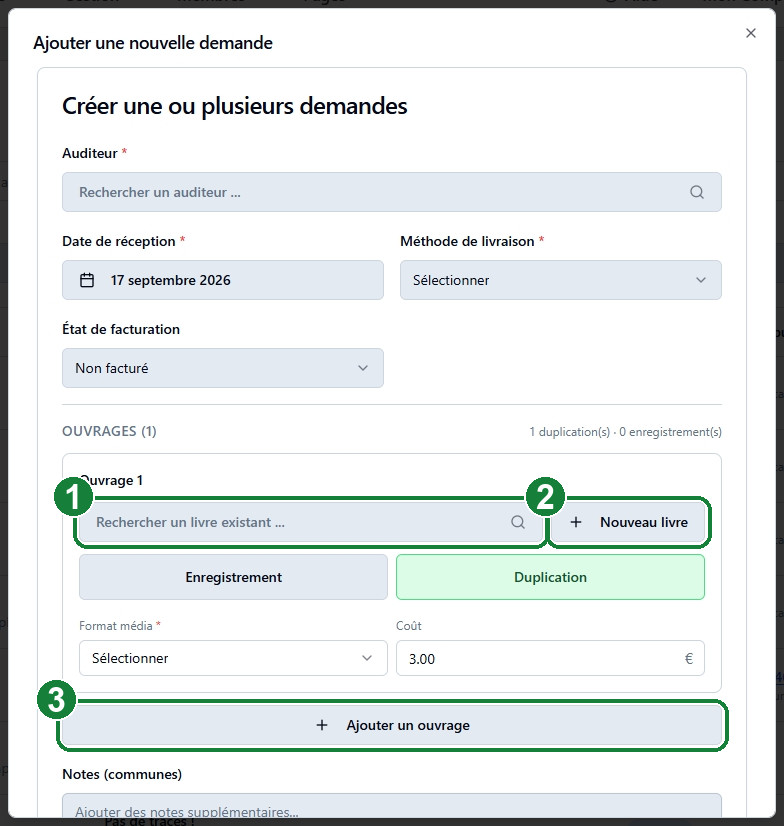
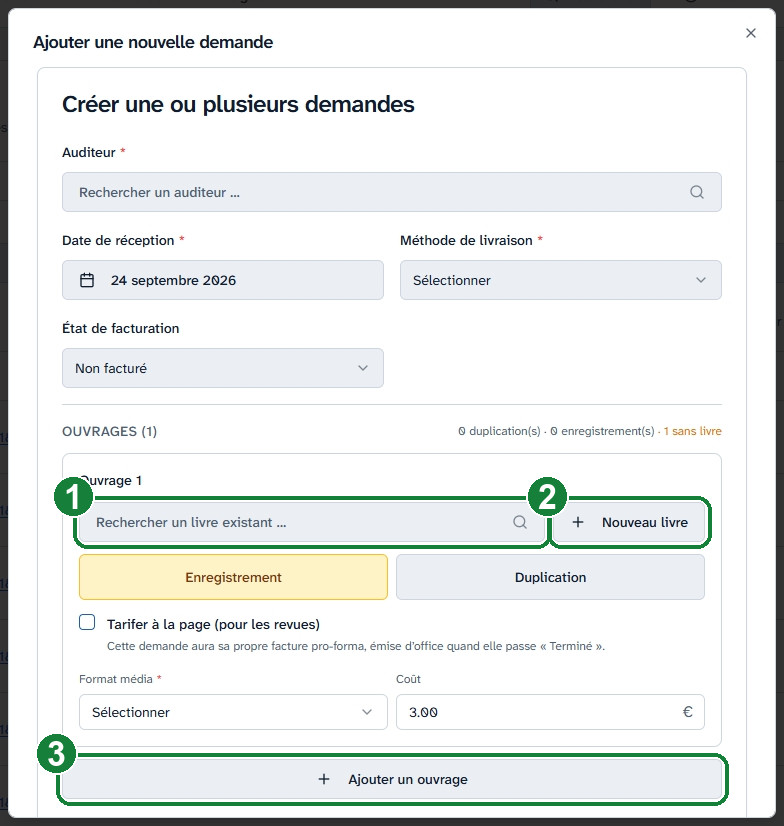
Nouvelle demande : le type de chaque ouvrage suit le livre choisi
Chaque ligne naissait « Duplication », et les boutons de type sont
recouverts par la liste de résultats du sélecteur de livre pendant la
recherche : des livres à faire lire partaient en duplications de rien.

- une ligne neuve est « Enregistrement » ;
- au choix du livre, le type est proposé (lib/orders/orderTypeSuggestion.ts) :
  audio présent → Duplication ; pas d'audio mais enregistrement en route
  (demande d'enregistrement ouverte, attribution Attente/En cours) →
  Duplication ; sinon → Enregistrement. Une note dit pourquoi quand
  « Duplication » est choisi à la place de l'utilisateur ; un clic l'emporte ;
- avertissement sur une duplication d'un livre sans audio ni enregistrement
  en cours ;
- mode d'emploi (06-demandes) et captures demandes-07/08 mis à jour ;
  demandes-08 entre dans le script de capture.

diff --git a/components/ui/admin/AddOrderFormBackend.tsx b/components/ui/admin/AddOrderFormBackend.tsx
@@ -45,6 +45,7 @@ import {
     pagePricingToPayload,
     pagePricingError,
 } from '@/lib/orders/pagePricingForm';
+import type { OrderLineType, OrderTypeReason } from '@/lib/orders/orderTypeSuggestion';
 
 // N3 — required fields, visual top→bottom. Per-line media format fields are
 // appended dynamically at validation time (one per open line).
@@ -54,12 +55,16 @@ const CREATE_FIELD_ORDER = ['aveugleId', 'deliveryMethod', 'lines'];
 // Multi-book order creation (fan-out: one order is created per book)
 // ---------------------------------------------------------------------------
 
-type OrderLineType = 'DUPLICATION' | 'ENREGISTREMENT';
-
 interface OrderBookLine {
     key: string;
     book: Book | null;
     type: OrderLineType;
+    /**
+     * Pourquoi `type` a été choisi à la place de l'utilisateur, au choix du livre
+     * (lib/orders/orderTypeSuggestion.ts). `null` dès qu'il clique lui-même un
+     * type : la note d'explication n'a alors plus lieu d'être.
+     */
+    typeReason: OrderTypeReason | null;
     cost: string;
     /** Seulement pour un enregistrement : une duplication n'a pas de lecture à compter. */
     pagePricing: PagePricingForm;
@@ -70,7 +75,10 @@ let lineKeySeq = 0;
 const makeLine = (cost: string): OrderBookLine => ({
     key: `line-${++lineKeySeq}-${Date.now()}`,
     book: null,
-    type: 'DUPLICATION',
+    // « Enregistrement » tant qu'aucun livre n'est choisi : c'est le cas d'un
+    // livre inconnu du corpus. Choisir le livre corrige ensuite s'il y a lieu.
+    type: 'ENREGISTREMENT',
+    typeReason: null,
     cost,
     pagePricing: emptyPagePricing(),
     mediaFormatId: null,
@@ -199,7 +207,12 @@ export function AddOrderFormBackend({
             })),
         [lines]
     );
-    const { adviceFor: recordingAdviceFor, conflicts: recordingConflicts } = useRecordingAdvice({
+    const {
+        adviceFor: recordingAdviceFor,
+        conflicts: recordingConflicts,
+        recordingUnderWayFor,
+        suggestTypeFor,
+    } = useRecordingAdvice({
         current: recordingLines,
     });
 
@@ -256,15 +269,35 @@ export function AddOrderFormBackend({
     // (lib/pricing.ts). This is where adjustments go missing: ten ouvrages saisis
     // d'affilée, un seul coût recopié partout. Le champ « Coût » de la ligne reste
     // libre juste en dessous, et un livre au poids inconnu garde le coût en place.
-    const selectBookForLine = (key: string, book: Book | null) => {
+    //
+    // Le type de la ligne suit le livre de la même façon (lib/orders/orderTypeSuggestion.ts).
+    // On l'attend AVANT de remplir la ligne : le sélecteur garde sa liste ouverte,
+    // avec un indicateur sur la ligne choisie, tant que ce callback n'a pas rendu
+    // la main — la ligne n'apparaît donc jamais avec un type qui change sous les yeux.
+    const selectBookForLine = async (key: string, book: Book | null) => {
         const suggested = book ? costSuggestion(book.audioSizeKb) : null;
-        updateLine(key, { book, ...(suggested ? { cost: suggested.value } : {}) });
+        const typeSuggestion = book
+            ? await suggestTypeFor(book.id, Boolean(book.audio_filepath))
+            : null;
+        updateLine(key, {
+            book,
+            ...(suggested ? { cost: suggested.value } : {}),
+            ...(typeSuggestion
+                ? {
+                    type: typeSuggestion.type,
+                    typeReason: typeSuggestion.reason,
+                    // Même remise à zéro que le bouton « Duplication » : une
+                    // duplication n'a pas de lecture à compter.
+                    ...(typeSuggestion.type === 'DUPLICATION' ? { pagePricing: emptyPagePricing() } : {}),
+                }
+                : {}),
+        });
     };
 
-    // Counted over the lines that carry a book only. A fresh line is born
-    // « Duplication » with no book, so counting every line announced « 14
-    // duplications » / « Créer 14 demandes » over 11 books chosen — three
-    // forgotten empty lines — and the submit then refused the lot.
+    // Counted over the lines that carry a book only. A fresh line has a type but
+    // no book, so counting every line announced « 14 demandes » / « Créer 14
+    // demandes » over 11 books chosen — three forgotten empty lines — and the
+    // submit then refused the lot.
     const filledLines = lines.filter(l => l.book);
     const filledCount = filledLines.length;
     const emptyCount = lines.length - filledCount;
@@ -493,20 +526,51 @@ export function AddOrderFormBackend({
                                             viewHref={(b) => `/admin/books?book=${b.id}`}
                                         />
                                     </div>
-                                    <CreateBookDialog onCreated={(b) => selectBookForLine(line.key, b)} />
+                                    <CreateBookDialog onCreated={(b) => void selectBookForLine(line.key, b)} />
                                 </div>
 
-                                {/* Type — per book */}
+                                {/* Type — per book. Proposé au choix du livre ; un clic ici l'emporte. */}
                                 <div className="grid grid-cols-2 gap-2">
-                                    <button type="button" onClick={() => updateLine(line.key, { type: 'ENREGISTREMENT' })}
+                                    <button type="button" onClick={() => updateLine(line.key, { type: 'ENREGISTREMENT', typeReason: null })}
                                             className={`p-3 rounded-md border text-sm font-medium transition-colors ${line.type === 'ENREGISTREMENT' ? 'bg-amber-100 border-amber-400 text-amber-900 dark:bg-amber-700/30 dark:border-amber-600 dark:text-amber-200' : 'bg-field border-border text-foreground hover:bg-muted'}`}>
                                         Enregistrement
                                     </button>
-                                    <button type="button" onClick={() => updateLine(line.key, { type: 'DUPLICATION', pagePricing: emptyPagePricing() })}
+                                    <button type="button" onClick={() => updateLine(line.key, { type: 'DUPLICATION', typeReason: null, pagePricing: emptyPagePricing() })}
                                             className={`p-3 rounded-md border text-sm font-medium transition-colors ${line.type === 'DUPLICATION' ? 'bg-green-100 border-green-400 text-green-900 dark:bg-green-700/30 dark:border-green-600 dark:text-green-200' : 'bg-field border-border text-foreground hover:bg-muted'}`}>
                                         Duplication
                                     </button>
                                 </div>
+
+                                {/* Pourquoi « Duplication » a été choisi à sa place. Rien pour
+                                    « Enregistrement » : c'est le type de départ, l'annoncer
+                                    à chaque livre ne serait que du bruit. */}
+                                {line.type === 'DUPLICATION' && line.typeReason === 'audio' && (
+                                    <p className="text-sm text-muted-foreground">
+                                        Un fichier audio existe déjà pour ce livre : « Duplication » a été
+                                        choisi automatiquement. Choisissez « Enregistrement » s&apos;il faut
+                                        le faire relire.
+                                    </p>
+                                )}
+                                {line.type === 'DUPLICATION' && line.typeReason === 'recording-under-way' && (
+                                    <p className="text-sm text-muted-foreground">
+                                        Ce livre est déjà en cours d&apos;enregistrement : « Duplication » a été
+                                        choisi automatiquement. Elle pourra être faite au retour de
+                                        l&apos;enregistrement.
+                                    </p>
+                                )}
+                                {/* Le cas que l'ancien défaut produisait sans bruit : une duplication
+                                    d'un livre qui n'a rien à copier et que personne n'enregistre.
+                                    Seulement une fois la vérification revenue (`false`, pas `null`). */}
+                                {line.type === 'DUPLICATION' &&
+                                    line.book &&
+                                    !line.book.audio_filepath &&
+                                    recordingUnderWayFor(line.book.id) === false && (
+                                    <p className="text-sm text-amber-700 dark:text-amber-400">
+                                        Ce livre n&apos;a pas encore de fichier audio et aucun enregistrement
+                                        n&apos;est en cours : il n&apos;y a rien à dupliquer. S&apos;il doit être
+                                        lu, choisissez « Enregistrement ».
+                                    </p>
+                                )}
 
                                 {/* #2 — audio déjà présent / demande d'enregistrement concurrente */}
                                 <RecordingAdviceNotice advice={recordingAdviceFor(recordingLines[idx])} />

diff --git a/lib/orders/orderTypeSuggestion.ts b/lib/orders/orderTypeSuggestion.ts
@@ -1,0 +1,50 @@
+/**
+ * Le type qu'un ouvrage appelle quand on le choisit dans une nouvelle demande.
+ *
+ * Le mode d'emploi pose la règle (06-demandes) : un livre déjà enregistré se
+ * duplique, un livre qu'il faut faire lire s'enregistre. Le type est donc, dans
+ * la plupart des cas, une conséquence du livre — pas une décision à retenir par
+ * cœur. Chaque ligne naissait pourtant « Duplication », et les boutons de type
+ * se trouvent juste sous le sélecteur de livre, que la liste de résultats
+ * recouvre pendant la recherche : on choisissait un livre, la liste se fermait,
+ * et la ligne partait en duplication sans que personne l'ait vue. Les nouveaux
+ * livres ressortaient ainsi en duplications de rien.
+ *
+ * On déduit donc le type AU MOMENT où le livre est choisi, c'est-à-dire après la
+ * fermeture de la liste : ce que la liste cachait n'a plus d'importance. Ça
+ * reste une proposition — un nouvel enregistrement d'un livre déjà enregistré
+ * (relecture) se choisit à la main, et le bouton cliqué l'emporte.
+ *
+ * Trois cas, dans cet ordre :
+ * 1. le livre a un fichier audio → « Duplication » : il y a de quoi copier ;
+ * 2. pas d'audio, mais un enregistrement est déjà en route (demande
+ *    d'enregistrement ouverte, ou attribution « Attente envoi vers lecteur » /
+ *    « En cours ») → « Duplication » : elle attend ce retour-là plutôt que de
+ *    lancer une seconde lecture du même livre ;
+ * 3. sinon → « Enregistrement ».
+ *
+ * Une attribution déjà « Terminé » ne compte pas au cas 2 : son audio est revenu,
+ * c'est le cas 1. Et si l'audio a été perdu depuis, il faut bien réenregistrer.
+ */
+
+export type OrderLineType = 'DUPLICATION' | 'ENREGISTREMENT';
+
+/** Pourquoi ce type-là — ce que la ligne dit à l'utilisateur quand il n'est pas évident. */
+export type OrderTypeReason = 'audio' | 'recording-under-way' | 'to-record';
+
+export interface OrderTypeSuggestion {
+    type: OrderLineType;
+    reason: OrderTypeReason;
+}
+
+export function suggestOrderType({
+    bookHasAudio,
+    recordingUnderWay,
+}: {
+    bookHasAudio: boolean;
+    recordingUnderWay: boolean;
+}): OrderTypeSuggestion {
+    if (bookHasAudio) return { type: 'DUPLICATION', reason: 'audio' };
+    if (recordingUnderWay) return { type: 'DUPLICATION', reason: 'recording-under-way' };
+    return { type: 'ENREGISTREMENT', reason: 'to-record' };
+}

diff --git a/hooks/useRecordingAdvice.ts b/hooks/useRecordingAdvice.ts
@@ -8,6 +8,7 @@ import {
     type RecordingContext,
     type RecordingDecision,
 } from "@/lib/orders/recordingAdvice";
+import { suggestOrderType, type OrderTypeSuggestion } from "@/lib/orders/orderTypeSuggestion";
 
 /** Attribution encore en cours pour ce livre — bloque une duplication. */
 export interface BlockingRecording {
@@ -166,5 +167,40 @@ export function useRecordingAdvice({
         [byBook]
     );
 
-    return { adviceFor, conflicts, blockingRecordingFor };
+    /**
+     * Un enregistrement de ce livre est-il déjà en route — demande
+     * d'enregistrement ouverte, ou attribution pas encore revenue ? `null` tant
+     * que la réponse n'est pas là : ne rien affirmer plutôt que d'affirmer à tort.
+     * Hors de la porte des avis, comme `blockingRecordingFor` : c'est l'état du
+     * livre, pas une mise en garde sur la décision.
+     */
+    const recordingUnderWayFor = useCallback(
+        (catalogueId: number | null): boolean | null => {
+            const res = catalogueId ? byBook[catalogueId] : null;
+            if (!res) return null;
+            return res.activeRecordingCount > 0 || res.blockingRecording !== null;
+        },
+        [byBook]
+    );
+
+    /**
+     * Le type à proposer pour un livre qu'on vient de choisir
+     * (`lib/orders/orderTypeSuggestion.ts`). Un livre qui a déjà son audio n'a pas
+     * besoin du serveur. Si la vérification échoue, on retombe sur
+     * « Enregistrement » : l'avis « demande d'enregistrement active » le dira
+     * alors sous la ligne, ce que le silence d'une duplication ne ferait pas.
+     */
+    const suggestTypeFor = useCallback(
+        async (bookId: number, bookHasAudio: boolean): Promise<OrderTypeSuggestion> => {
+            if (bookHasAudio) return suggestOrderType({ bookHasAudio, recordingUnderWay: false });
+            const res = await lookup(bookId);
+            return suggestOrderType({
+                bookHasAudio,
+                recordingUnderWay: !!res && (res.activeRecordingCount > 0 || res.blockingRecording !== null),
+            });
+        },
+        [lookup]
+    );
+
+    return { adviceFor, conflicts, blockingRecordingFor, recordingUnderWayFor, suggestTypeFor };
 }

diff --git a/content/aide/06-demandes.md b/content/aide/06-demandes.md
@@ -107,7 +107,15 @@ Vous pouvez également saisir un coût spécifique pour la demande. Par défaut,
 
 ![Demandes - capture 7](/admin/aide/images/demandes-07.jpg)
 
-Si le livre est déjà enregistré, nous classons la demande comme une (1) duplication. Si le livre doit être lu par quelqu'un, nous classons la demande comme un (2) enregistrement.
+Si le livre doit être lu par quelqu'un, nous classons la demande comme un (1) enregistrement. Si le livre est déjà enregistré, nous la classons comme une (2) duplication.
+
+Le portail choisit le type pour vous au moment où vous sélectionnez le livre :
+
+- le livre a déjà un fichier audio → **Duplication** ;
+- le livre n'a pas encore d'audio mais il est déjà en cours d'enregistrement (une demande d'enregistrement ouverte, ou une attribution « Attente envoi vers lecteur » ou « En cours ») → **Duplication** : elle pourra être faite au retour de l'enregistrement ;
+- sinon → **Enregistrement**. C'est aussi le type d'une ligne tant qu'aucun livre n'est choisi.
+
+Quand le portail choisit « Duplication », une note sous les boutons dit pourquoi. Ce n'est qu'une proposition : cliquez sur l'autre bouton pour la changer, par exemple pour faire relire un livre déjà enregistré. Si vous choisissez « Duplication » pour un livre qui n'a ni audio ni enregistrement en cours, un avertissement rappelle qu'il n'y a rien à dupliquer.
 
 ![Demandes - capture 8](/admin/aide/images/demandes-08.jpg)
 
